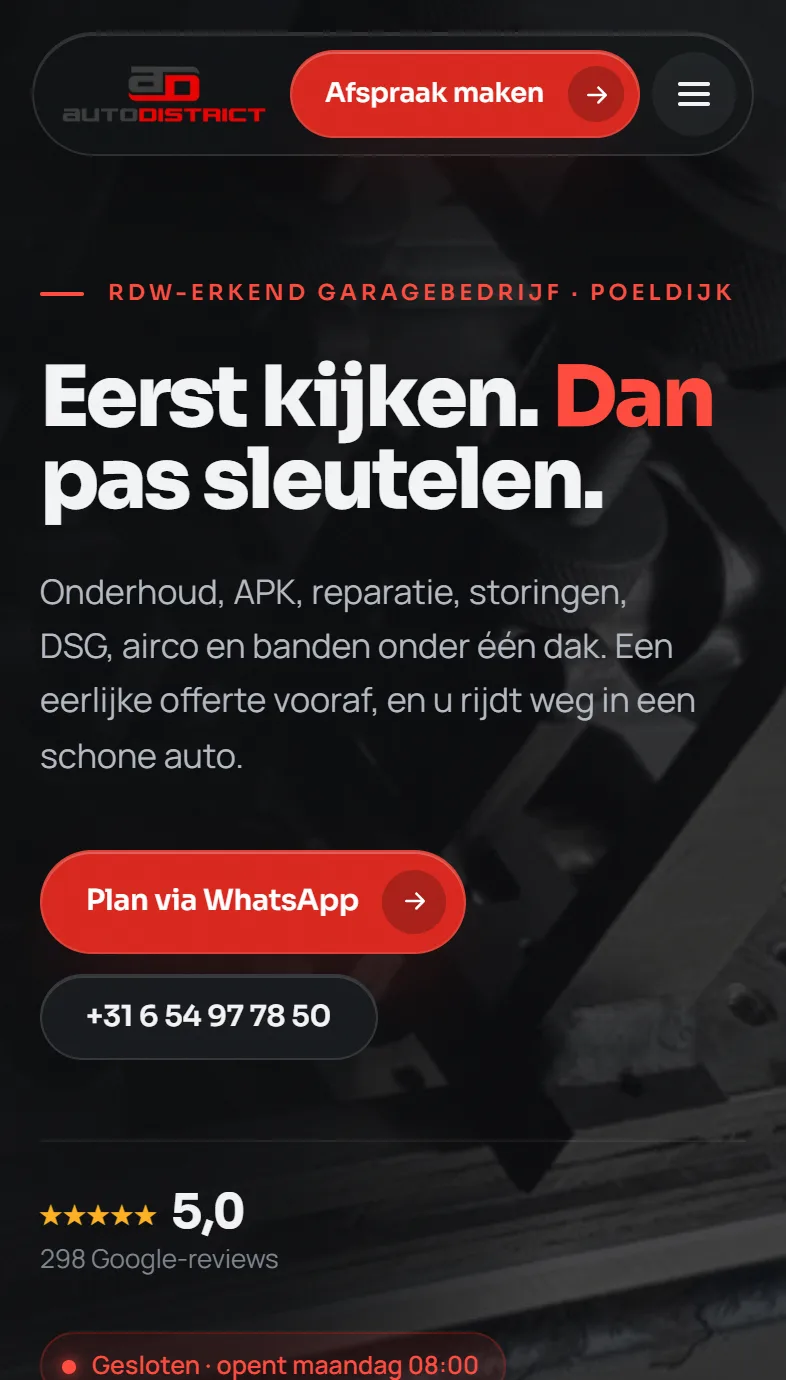
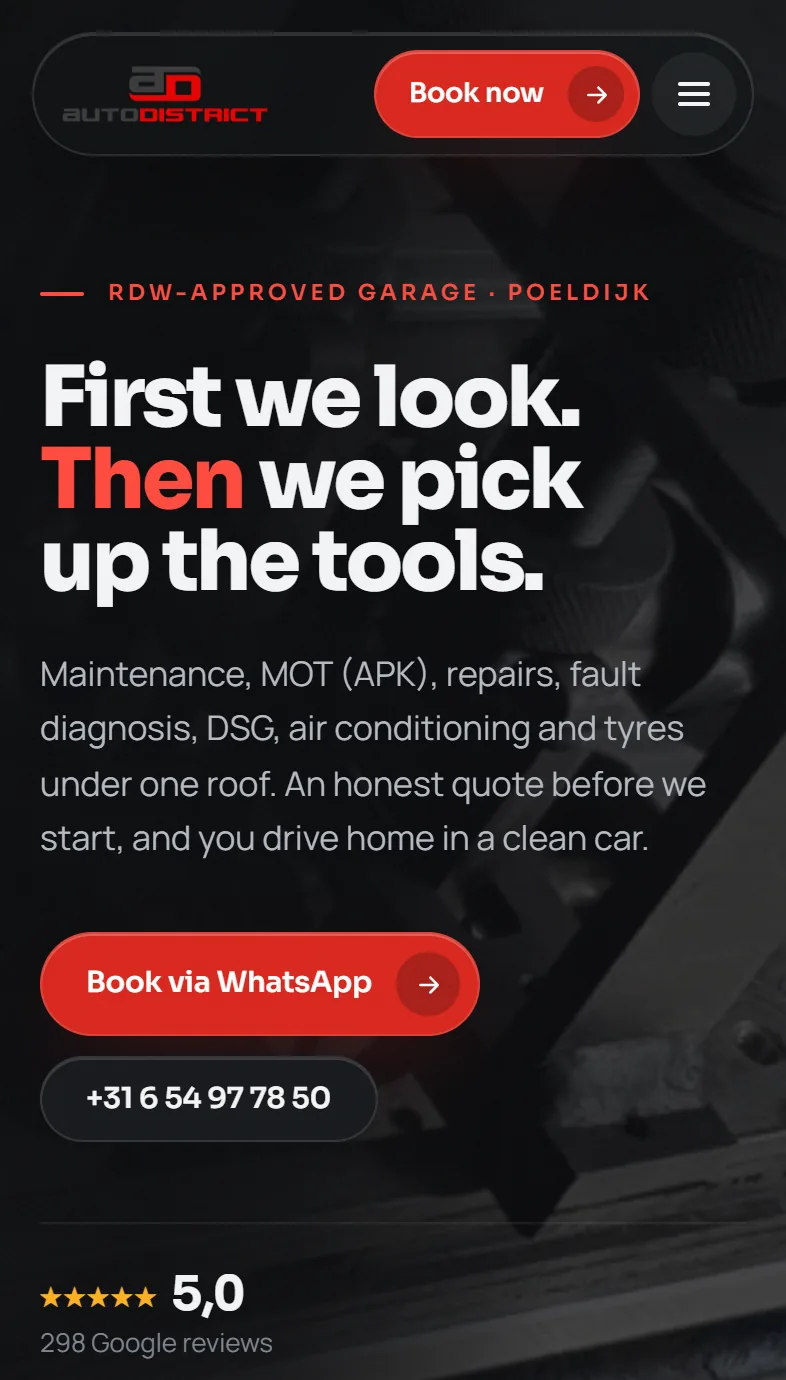
Home: all eight builds in the work slider
Auto District, Scootershop Den Haag, Bakkerij Hartman and Atelier Lune join
the laptop and phone strips, with new phone screenshots. The eight slides
carry the portfolio's wording and figures.

diff --git a/index.html b/index.html
@@ -1171,7 +1171,7 @@
         data-en="Sectors you can open and click through. Each build carries one figure you can verify in the design itself, not a performance claim.">Sectors you can open and click through. Each build carries one figure you can verify in the design itself, not a performance claim.</p>
     </div>
 
-    <div class="hm-show" id="hmShow" style="--i:0;--n:4" data-reveal>
+    <div class="hm-show" id="hmShow" style="--i:0;--n:8" data-reveal>
 
       <!-- the devices -->
       <div class="hm-stage">
@@ -1190,6 +1190,10 @@
         <a href="/client-projects/luna-beauty-studio/" target="_blank" rel="noopener" tabindex="-1" aria-hidden="true" data-cursor-label="View live"><img src="/assets/screenshots/luna-beauty-studio.webp" srcset="/assets/screenshots/luna-beauty-studio-640.webp 640w, /assets/screenshots/luna-beauty-studio.webp 1280w" sizes="(max-width:900px) 92vw, 48vw" width="1280" height="900" alt="Luna Beauty Studio" loading="lazy" decoding="async"></a>
         <a href="/client-projects/maison-blanc-interieur/" target="_blank" rel="noopener" tabindex="-1" aria-hidden="true" data-cursor-label="View live"><img src="/assets/screenshots/maison-blanc-interieur.webp" srcset="/assets/screenshots/maison-blanc-interieur-640.webp 640w, /assets/screenshots/maison-blanc-interieur.webp 1280w" sizes="(max-width:900px) 92vw, 48vw" width="1280" height="900" alt="Maison Blanc Interieur" loading="lazy" decoding="async"></a>
         <a href="/client-projects/studio-lena-fotografie/" target="_blank" rel="noopener" tabindex="-1" aria-hidden="true" data-cursor-label="View live"><img src="/assets/screenshots/studio-lena-fotografie.webp" srcset="/assets/screenshots/studio-lena-fotografie-640.webp 640w, /assets/screenshots/studio-lena-fotografie.webp 1280w" sizes="(max-width:900px) 92vw, 48vw" width="1280" height="900" alt="Studio Lena" loading="lazy" decoding="async"></a>
+        <a href="/client-projects/autodistrict/" target="_blank" rel="noopener" tabindex="-1" aria-hidden="true" data-cursor-label="View live"><img src="/assets/screenshots/autodistrict.webp" srcset="/assets/screenshots/autodistrict-640.webp 640w, /assets/screenshots/autodistrict.webp 1280w" sizes="(max-width:900px) 92vw, 48vw" width="1280" height="900" alt="Auto District" loading="lazy" decoding="async"></a>
+        <a href="/client-projects/scootershopdenhaag/" target="_blank" rel="noopener" tabindex="-1" aria-hidden="true" data-cursor-label="View live"><img src="/assets/screenshots/scootershopdenhaag.webp" srcset="/assets/screenshots/scootershopdenhaag-640.webp 640w, /assets/screenshots/scootershopdenhaag.webp 1280w" sizes="(max-width:900px) 92vw, 48vw" width="1280" height="900" alt="Scootershop Den Haag" loading="lazy" decoding="async"></a>
+        <a href="/client-projects/bakkerij-hartman/" target="_blank" rel="noopener" tabindex="-1" aria-hidden="true" data-cursor-label="View live"><img src="/assets/screenshots/bakkerij-hartman.webp" srcset="/assets/screenshots/bakkerij-hartman-640.webp 640w, /assets/screenshots/bakkerij-hartman.webp 1280w" sizes="(max-width:900px) 92vw, 48vw" width="1280" height="900" alt="Bakkerij Hartman" loading="lazy" decoding="async"></a>
+        <a href="/client-projects/nox-studio/" target="_blank" rel="noopener" tabindex="-1" aria-hidden="true" data-cursor-label="View live"><img src="/assets/screenshots/nox-studio.webp" srcset="/assets/screenshots/nox-studio-640.webp 640w, /assets/screenshots/nox-studio.webp 1280w" sizes="(max-width:900px) 92vw, 48vw" width="1280" height="900" alt="Atelier Lune" loading="lazy" decoding="async"></a>
               </div>
               </div>
             </div>
@@ -1200,12 +1204,16 @@
         <div class="hm-nav">
           <button class="hm-nav-btn" data-dir="-1" aria-label="Previous project"><svg viewBox="0 0 24 24" fill="none" stroke="currentColor" stroke-width="2" stroke-linecap="round" stroke-linejoin="round"><path d="M19 12H5M11 6l-6 6 6 6"/></svg></button>
           <button class="hm-nav-btn" data-dir="1" aria-label="Next project"><svg viewBox="0 0 24 24" fill="none" stroke="currentColor" stroke-width="2" stroke-linecap="round" stroke-linejoin="round"><path d="M5 12h14M13 6l6 6-6 6"/></svg></button>
-          <span class="hm-nav-count"><b id="hmCur">01</b><i>/</i>04</span>
+          <span class="hm-nav-count"><b id="hmCur">01</b><i>/</i>08</span>
           <div class="hm-steps" role="tablist" aria-label="Projects">
             <button class="hm-step is-on" data-go="0" aria-label="Project 1"></button>
             <button class="hm-step" data-go="1" aria-label="Project 2"></button>
             <button class="hm-step" data-go="2" aria-label="Project 3"></button>
             <button class="hm-step" data-go="3" aria-label="Project 4"></button>
+            <button class="hm-step" data-go="4" aria-label="Project 5"></button>
+            <button class="hm-step" data-go="5" aria-label="Project 6"></button>
+            <button class="hm-step" data-go="6" aria-label="Project 7"></button>
+            <button class="hm-step" data-go="7" aria-label="Project 8"></button>
           </div>
         </div>
 
@@ -1219,6 +1227,10 @@
         <span class="hm-ph" style="--sbg:#faf6f1;--sfg:#2b211c"><span class="hm-sb"><b>9:41</b><svg viewBox="0 0 60 12" fill="currentColor" aria-hidden="true"><rect x="0" y="7" width="3" height="5" rx=".8"/><rect x="4.5" y="5" width="3" height="7" rx=".8"/><rect x="9" y="3" width="3" height="9" rx=".8"/><rect x="13.5" y="1" width="3" height="11" rx=".8"/><path d="M27 4.2a8 8 0 0 1 10.6 0l-1.3 1.4a6 6 0 0 0-8 0zM29.6 7a4.4 4.4 0 0 1 5.4 0l-1.3 1.4a2.5 2.5 0 0 0-2.8 0zM32.3 9.9l1.2 1.3-1.2 1.2-1.2-1.2z"/><rect x="42" y="1.5" width="15" height="9" rx="2.5" fill="none" stroke="currentColor" stroke-width="1.1" opacity=".5"/><rect x="43.5" y="3" width="11" height="6" rx="1.4"/><path d="M58 4.5v3a1.6 1.6 0 0 0 0-3z"/></svg></span><img src="/assets/screenshots/luna-beauty-studio-phone.webp" width="786" height="1380" alt="" loading="lazy" decoding="async"></span>
         <span class="hm-ph" style="--sbg:#fbf9f5;--sfg:#2b2620"><span class="hm-sb"><b>9:41</b><svg viewBox="0 0 60 12" fill="currentColor" aria-hidden="true"><rect x="0" y="7" width="3" height="5" rx=".8"/><rect x="4.5" y="5" width="3" height="7" rx=".8"/><rect x="9" y="3" width="3" height="9" rx=".8"/><rect x="13.5" y="1" width="3" height="11" rx=".8"/><path d="M27 4.2a8 8 0 0 1 10.6 0l-1.3 1.4a6 6 0 0 0-8 0zM29.6 7a4.4 4.4 0 0 1 5.4 0l-1.3 1.4a2.5 2.5 0 0 0-2.8 0zM32.3 9.9l1.2 1.3-1.2 1.2-1.2-1.2z"/><rect x="42" y="1.5" width="15" height="9" rx="2.5" fill="none" stroke="currentColor" stroke-width="1.1" opacity=".5"/><rect x="43.5" y="3" width="11" height="6" rx="1.4"/><path d="M58 4.5v3a1.6 1.6 0 0 0 0-3z"/></svg></span><img src="/assets/screenshots/maison-blanc-interieur-phone.webp" width="786" height="1380" alt="" loading="lazy" decoding="async"></span>
         <span class="hm-ph" style="--sbg:#f1edec;--sfg:#2a2424"><span class="hm-sb"><b>9:41</b><svg viewBox="0 0 60 12" fill="currentColor" aria-hidden="true"><rect x="0" y="7" width="3" height="5" rx=".8"/><rect x="4.5" y="5" width="3" height="7" rx=".8"/><rect x="9" y="3" width="3" height="9" rx=".8"/><rect x="13.5" y="1" width="3" height="11" rx=".8"/><path d="M27 4.2a8 8 0 0 1 10.6 0l-1.3 1.4a6 6 0 0 0-8 0zM29.6 7a4.4 4.4 0 0 1 5.4 0l-1.3 1.4a2.5 2.5 0 0 0-2.8 0zM32.3 9.9l1.2 1.3-1.2 1.2-1.2-1.2z"/><rect x="42" y="1.5" width="15" height="9" rx="2.5" fill="none" stroke="currentColor" stroke-width="1.1" opacity=".5"/><rect x="43.5" y="3" width="11" height="6" rx="1.4"/><path d="M58 4.5v3a1.6 1.6 0 0 0 0-3z"/></svg></span><img src="/assets/screenshots/studio-lena-fotografie-phone.webp" width="786" height="1380" alt="" loading="lazy" decoding="async"></span>
+        <span class="hm-ph" style="--sbg:#0a0b0d;--sfg:#fff"><span class="hm-sb"><b>9:41</b><svg viewBox="0 0 60 12" fill="currentColor" aria-hidden="true"><rect x="0" y="7" width="3" height="5" rx=".8"/><rect x="4.5" y="5" width="3" height="7" rx=".8"/><rect x="9" y="3" width="3" height="9" rx=".8"/><rect x="13.5" y="1" width="3" height="11" rx=".8"/><path d="M27 4.2a8 8 0 0 1 10.6 0l-1.3 1.4a6 6 0 0 0-8 0zM29.6 7a4.4 4.4 0 0 1 5.4 0l-1.3 1.4a2.5 2.5 0 0 0-2.8 0zM32.3 9.9l1.2 1.3-1.2 1.2-1.2-1.2z"/><rect x="42" y="1.5" width="15" height="9" rx="2.5" fill="none" stroke="currentColor" stroke-width="1.1" opacity=".5"/><rect x="43.5" y="3" width="11" height="6" rx="1.4"/><path d="M58 4.5v3a1.6 1.6 0 0 0 0-3z"/></svg></span><img src="/assets/screenshots/autodistrict-phone.webp" width="786" height="1380" alt="" loading="lazy" decoding="async"></span>
+        <span class="hm-ph" style="--sbg:#f9f6f1;--sfg:#1a1a1a"><span class="hm-sb"><b>9:41</b><svg viewBox="0 0 60 12" fill="currentColor" aria-hidden="true"><rect x="0" y="7" width="3" height="5" rx=".8"/><rect x="4.5" y="5" width="3" height="7" rx=".8"/><rect x="9" y="3" width="3" height="9" rx=".8"/><rect x="13.5" y="1" width="3" height="11" rx=".8"/><path d="M27 4.2a8 8 0 0 1 10.6 0l-1.3 1.4a6 6 0 0 0-8 0zM29.6 7a4.4 4.4 0 0 1 5.4 0l-1.3 1.4a2.5 2.5 0 0 0-2.8 0zM32.3 9.9l1.2 1.3-1.2 1.2-1.2-1.2z"/><rect x="42" y="1.5" width="15" height="9" rx="2.5" fill="none" stroke="currentColor" stroke-width="1.1" opacity=".5"/><rect x="43.5" y="3" width="11" height="6" rx="1.4"/><path d="M58 4.5v3a1.6 1.6 0 0 0 0-3z"/></svg></span><img src="/assets/screenshots/scootershopdenhaag-phone.webp" width="786" height="1380" alt="" loading="lazy" decoding="async"></span>
+        <span class="hm-ph" style="--sbg:#fdf4e0;--sfg:#2b2118"><span class="hm-sb"><b>9:41</b><svg viewBox="0 0 60 12" fill="currentColor" aria-hidden="true"><rect x="0" y="7" width="3" height="5" rx=".8"/><rect x="4.5" y="5" width="3" height="7" rx=".8"/><rect x="9" y="3" width="3" height="9" rx=".8"/><rect x="13.5" y="1" width="3" height="11" rx=".8"/><path d="M27 4.2a8 8 0 0 1 10.6 0l-1.3 1.4a6 6 0 0 0-8 0zM29.6 7a4.4 4.4 0 0 1 5.4 0l-1.3 1.4a2.5 2.5 0 0 0-2.8 0zM32.3 9.9l1.2 1.3-1.2 1.2-1.2-1.2z"/><rect x="42" y="1.5" width="15" height="9" rx="2.5" fill="none" stroke="currentColor" stroke-width="1.1" opacity=".5"/><rect x="43.5" y="3" width="11" height="6" rx="1.4"/><path d="M58 4.5v3a1.6 1.6 0 0 0 0-3z"/></svg></span><img src="/assets/screenshots/bakkerij-hartman-phone.webp" width="786" height="1380" alt="" loading="lazy" decoding="async"></span>
+        <span class="hm-ph" style="--sbg:#0c0906;--sfg:#fff"><span class="hm-sb"><b>9:41</b><svg viewBox="0 0 60 12" fill="currentColor" aria-hidden="true"><rect x="0" y="7" width="3" height="5" rx=".8"/><rect x="4.5" y="5" width="3" height="7" rx=".8"/><rect x="9" y="3" width="3" height="9" rx=".8"/><rect x="13.5" y="1" width="3" height="11" rx=".8"/><path d="M27 4.2a8 8 0 0 1 10.6 0l-1.3 1.4a6 6 0 0 0-8 0zM29.6 7a4.4 4.4 0 0 1 5.4 0l-1.3 1.4a2.5 2.5 0 0 0-2.8 0zM32.3 9.9l1.2 1.3-1.2 1.2-1.2-1.2z"/><rect x="42" y="1.5" width="15" height="9" rx="2.5" fill="none" stroke="currentColor" stroke-width="1.1" opacity=".5"/><rect x="43.5" y="3" width="11" height="6" rx="1.4"/><path d="M58 4.5v3a1.6 1.6 0 0 0 0-3z"/></svg></span><img src="/assets/screenshots/nox-studio-phone.webp" width="786" height="1380" alt="" loading="lazy" decoding="async"></span>
               </div>
               <div class="hm-isaf" aria-hidden="true">
                 <span class="hm-isaf-url"><b>AA</b><span id="hmUrlPhone">webkreatives.com</span><svg viewBox="0 0 24 24"><path d="M20 12a8 8 0 1 1-2.3-5.7"/><path d="M20 4v5h-5"/></svg></span>
@@ -1237,11 +1249,11 @@
         <span class="hm-slide-n">01</span>
         <span class="wk-meta" data-nl="Horeca · One-page" data-en="Food &amp; drink · One-page">Food &amp; drink · One-page</span>
         <h3>Leyenburger Grill</h3>
-        <p class="hm-slide-desc" data-nl="Voor eethuizen die sfeer, menu en locatie direct overbrengen. Donker editorial design met menukaart, openingstijden en Google Maps." data-en="For restaurants that put atmosphere, menu and location front and center. Dark editorial design with menu section, opening hours and Google Maps.">For restaurants that put atmosphere, menu and location front and center. Dark editorial design with menu section, opening hours and Google Maps.</p>
+        <p class="hm-slide-desc" data-nl="Eethuis in Den Haag. De menukaart is de site zelf, geen PDF en geen bezorgplatform ertussen. Openingstijden, route en de kaart in twee talen." data-en="An eatery in The Hague. The menu is the site itself, no PDF and no delivery platform in between. Opening hours, directions and the menu in two languages.">An eatery in The Hague. The menu is the site itself, no PDF and no delivery platform in between. Opening hours, directions and the menu in two languages.</p>
         <div class="hm-slide-foot">
           <span class="hm-slide-fig">
-            <b data-count="2">2</b>
-            <span data-nl="Talen, NL en EN" data-en="Languages, NL and EN">Languages, NL and EN</span>
+            <b data-count="43">43</b>
+            <span data-nl="Gerechten op de kaart, zonder PDF" data-en="Dishes on the menu, no PDF">Dishes on the menu, no PDF</span>
           </span>
           <a class="hm-slide-go" data-url="webkreatives.com/leyenburger" href="/client-projects/leyenburger/" target="_blank" rel="noopener">
             <span data-nl="Bekijk het project" data-en="View the project">View the project</span><span class="wk-arrow">&rarr;</span>
@@ -1252,11 +1264,11 @@
         <span class="hm-slide-n">02</span>
         <span class="wk-meta" data-nl="Beauty · One-page" data-en="Beauty · One-page">Beauty · One-page</span>
         <h3>Luna Beauty Studio</h3>
-        <p class="hm-slide-desc" data-nl="Voor salons en beautybedrijven waarbij diensten directe boekingen triggeren. Warm design met diensten, prijzen, testimonials en WhatsApp-boeking." data-en="For salons and beauty brands where services need to trigger bookings. Warm design with services, pricing, testimonials and WhatsApp booking.">For salons and beauty brands where services need to trigger bookings. Warm design with services, pricing, testimonials and WhatsApp booking.</p>
+        <p class="hm-slide-desc" data-nl="Beautysalon in Rotterdam. Vier behandelingen met de prijs erbij, ervaringen van klanten en een boeking die in WhatsApp opent, want daar zit de klant al." data-en="A beauty salon in Rotterdam. Four treatments with the price next to them, client stories and a booking that opens in WhatsApp, because that is where the client already is.">A beauty salon in Rotterdam. Four treatments with the price next to them, client stories and a booking that opens in WhatsApp, because that is where the client already is.</p>
         <div class="hm-slide-foot">
           <span class="hm-slide-fig">
-            <b data-count="5">5</b>
-            <span data-nl="Secties op één pagina" data-en="Sections on one page">Sections on one page</span>
+            <b data-count="4">4</b>
+            <span data-nl="Behandelingen, prijs erbij" data-en="Treatments, price included">Treatments, price included</span>
           </span>
           <a class="hm-slide-go" data-url="webkreatives.com/luna-beauty-studio" href="/client-projects/luna-beauty-studio/" target="_blank" rel="noopener">
             <span data-nl="Bekijk het project" data-en="View the project">View the project</span><span class="wk-arrow">&rarr;</span>
@@ -1267,11 +1279,11 @@
         <span class="hm-slide-n">03</span>
         <span class="wk-meta" data-nl="Interieur · One-page" data-en="Interior · One-page">Interior · One-page</span>
         <h3>Maison Blanc Interieur</h3>
-        <p class="hm-slide-desc" data-nl="Voor premium merken waarbij elke bezoeker verfijning moet voelen. Ultra-luxe editorial stijl met magazine-grid en antiekgouden accenten." data-en="For premium brands where every visitor should feel the quality. Ultra-luxury editorial style with magazine grid and antique gold accents.">For premium brands where every visitor should feel the quality. Ultra-luxury editorial style with magazine grid and antique gold accents.</p>
+        <p class="hm-slide-desc" data-nl="Interieurstudio. Opgezet als een magazine: grote projectfoto's op een rustig grid, diensten in een paar regels en antiekgoud als enige accent." data-en="An interior studio. Laid out like a magazine: large project photos on a calm grid, services in a few lines and antique gold as the only accent.">An interior studio. Laid out like a magazine: large project photos on a calm grid, services in a few lines and antique gold as the only accent.</p>
         <div class="hm-slide-foot">
           <span class="hm-slide-fig">
             <b data-count="6">6</b>
-            <span data-nl="Secties op één pagina" data-en="Sections on one page">Sections on one page</span>
+            <span data-nl="Projecten op een magazine-grid" data-en="Projects on a magazine grid">Projects on a magazine grid</span>
           </span>
           <a class="hm-slide-go" data-url="webkreatives.com/maison-blanc-interieur" href="/client-projects/maison-blanc-interieur/" target="_blank" rel="noopener">
             <span data-nl="Bekijk het project" data-en="View the project">View the project</span><span class="wk-arrow">&rarr;</span>
@@ -1282,13 +1294,73 @@
         <span class="hm-slide-n">04</span>
         <span class="wk-meta" data-nl="Fotografie · One-page" data-en="Photography · One-page">Photography · One-page</span>
         <h3>Studio Lena</h3>
-        <p class="hm-slide-desc" data-nl="Voor fotografen en creatives die het werk laten spreken. Scandinavisch minimalisme met asymmetrisch fotogrid, 100vh split hero en subtiele scrollanimaties." data-en="For photographers and creatives who let their work do the talking. Scandinavian minimalism with asymmetric photo grid, 100vh split hero and subtle scroll animations.">For photographers and creatives who let their work do the talking. Scandinavian minimalism with asymmetric photo grid, 100vh split hero and subtle scroll animations.</p>
+        <p class="hm-slide-desc" data-nl="Fotograaf. Het werk vult het eerste scherm en de rest van de site blijft eruit: een fotogrid, twee pakketten met prijs en een korte kennismaking." data-en="A photographer. The work fills the first screen and the rest of the site stays out of the way: a photo grid, two packages with a price and a short introduction.">A photographer. The work fills the first screen and the rest of the site stays out of the way: a photo grid, two packages with a price and a short introduction.</p>
         <div class="hm-slide-foot">
           <span class="hm-slide-fig">
             <b data-count="3">3</b>
-            <span data-nl="Secties op één pagina" data-en="Sections on one page">Sections on one page</span>
+            <span data-nl="Secties, het werk doet de rest" data-en="Sections, the work does the rest">Sections, the work does the rest</span>
           </span>
           <a class="hm-slide-go" data-url="webkreatives.com/studio-lena-fotografie" href="/client-projects/studio-lena-fotografie/" target="_blank" rel="noopener">
+            <span data-nl="Bekijk het project" data-en="View the project">View the project</span><span class="wk-arrow">&rarr;</span>
+          </a>
+        </div>
+      </article>
+      <article class="hm-slide" data-i="4" aria-hidden="true">
+        <span class="hm-slide-n">05</span>
+        <span class="wk-meta" data-nl="Automotive · Meerdere pagina's" data-en="Automotive · Multi-page">Automotive · Multi-page</span>
+        <h3>Auto District</h3>
+        <p class="hm-slide-desc" data-nl="RDW-erkend garagebedrijf in Poeldijk. Een dashboard dat een storing wist terwijl je scrolt, diensten die op de pagina zelf openklappen, live openingstijden en een afspraak via WhatsApp." data-en="An RDW-approved garage in Poeldijk. A dashboard that clears a fault as you scroll, services that fold open on the page itself, live opening hours and a booking over WhatsApp.">An RDW-approved garage in Poeldijk. A dashboard that clears a fault as you scroll, services that fold open on the page itself, live opening hours and a booking over WhatsApp.</p>
+        <div class="hm-slide-foot">
+          <span class="hm-slide-fig">
+            <b data-count="7">7</b>
+            <span data-nl="Diensten, elk met eigen animatie" data-en="Services, each with its own animation">Services, each with its own animation</span>
+          </span>
+          <a class="hm-slide-go" data-url="webkreatives.com/autodistrict" href="/client-projects/autodistrict/" target="_blank" rel="noopener">
+            <span data-nl="Bekijk het project" data-en="View the project">View the project</span><span class="wk-arrow">&rarr;</span>
+          </a>
+        </div>
+      </article>
+      <article class="hm-slide" data-i="5" aria-hidden="true">
+        <span class="hm-slide-n">06</span>
+        <span class="wk-meta" data-nl="Automotive · Meerdere pagina's" data-en="Automotive · Multi-page">Automotive · Multi-page</span>
+        <h3>Scootershop Den Haag</h3>
+        <p class="hm-slide-desc" data-nl="Scooterwerkplaats met één belofte: 's ochtends gebracht, 's avonds klaar. De prijs staat al op het eerste scherm, WhatsApp en bellen ook, en de grote beurt laat zien wat er in de zestien punten zit." data-en="A scooter workshop with one promise: brought in the morning, ready by evening. The price sits on the first screen, so do WhatsApp and call, and the full service shows what its sixteen points cover.">A scooter workshop with one promise: brought in the morning, ready by evening. The price sits on the first screen, so do WhatsApp and call, and the full service shows what its sixteen points cover.</p>
+        <div class="hm-slide-foot">
+          <span class="hm-slide-fig">
+            <b data-count="2">2</b>
+            <span data-nl="Beurten met vaste prijs, vooraf" data-en="Services with a fixed price, up front">Services with a fixed price, up front</span>
+          </span>
+          <a class="hm-slide-go" data-url="webkreatives.com/scootershopdenhaag" href="/client-projects/scootershopdenhaag/" target="_blank" rel="noopener">
+            <span data-nl="Bekijk het project" data-en="View the project">View the project</span><span class="wk-arrow">&rarr;</span>
+          </a>
+        </div>
+      </article>
+      <article class="hm-slide" data-i="6" aria-hidden="true">
+        <span class="hm-slide-n">07</span>
+        <span class="wk-meta" data-nl="Bakkerij · One-page" data-en="Bakery · One-page">Bakery · One-page</span>
+        <h3>Bakkerij Hartman</h3>
+        <p class="hm-slide-desc" data-nl="Ambachtelijke bakkerij. Papiertextuur en retro letters, productkaarten met prijs, en de openingstijden per dag, zodat niemand voor een dichte deur staat." data-en="An artisan bakery. Paper texture and retro lettering, product cards with a price, and opening hours per day so nobody stands at a closed door.">An artisan bakery. Paper texture and retro lettering, product cards with a price, and opening hours per day so nobody stands at a closed door.</p>
+        <div class="hm-slide-foot">
+          <span class="hm-slide-fig">
+            <b data-count="4">4</b>
+            <span data-nl="Producten met prijs op een kaart" data-en="Products with a price on a card">Products with a price on a card</span>
+          </span>
+          <a class="hm-slide-go" data-url="webkreatives.com/bakkerij-hartman" href="/client-projects/bakkerij-hartman/" target="_blank" rel="noopener">
+            <span data-nl="Bekijk het project" data-en="View the project">View the project</span><span class="wk-arrow">&rarr;</span>
+          </a>
+        </div>
+      </article>
+      <article class="hm-slide" data-i="7" aria-hidden="true">
+        <span class="hm-slide-n">08</span>
+        <span class="wk-meta" data-nl="Sieraden · One-page" data-en="Jewellery · One-page">Jewellery · One-page</span>
+        <h3>Atelier Lune</h3>
+        <p class="hm-slide-desc" data-nl="Sieradenmaker in Amsterdam. Zes stukken met prijs, het maakproces in vier stappen en een knop om een eigen ontwerp aan te vragen." data-en="A jewellery maker in Amsterdam. Six pieces with a price, the making process in four steps and a button to commission your own design.">A jewellery maker in Amsterdam. Six pieces with a price, the making process in four steps and a button to commission your own design.</p>
+        <div class="hm-slide-foot">
+          <span class="hm-slide-fig">
+            <b data-count="4">4</b>
+            <span data-nl="Stappen van schets tot sieraad" data-en="Steps from sketch to piece">Steps from sketch to piece</span>
+          </span>
+          <a class="hm-slide-go" data-url="webkreatives.com/nox-studio" href="/client-projects/nox-studio/" target="_blank" rel="noopener">
             <span data-nl="Bekijk het project" data-en="View the project">View the project</span><span class="wk-arrow">&rarr;</span>
           </a>
         </div>
